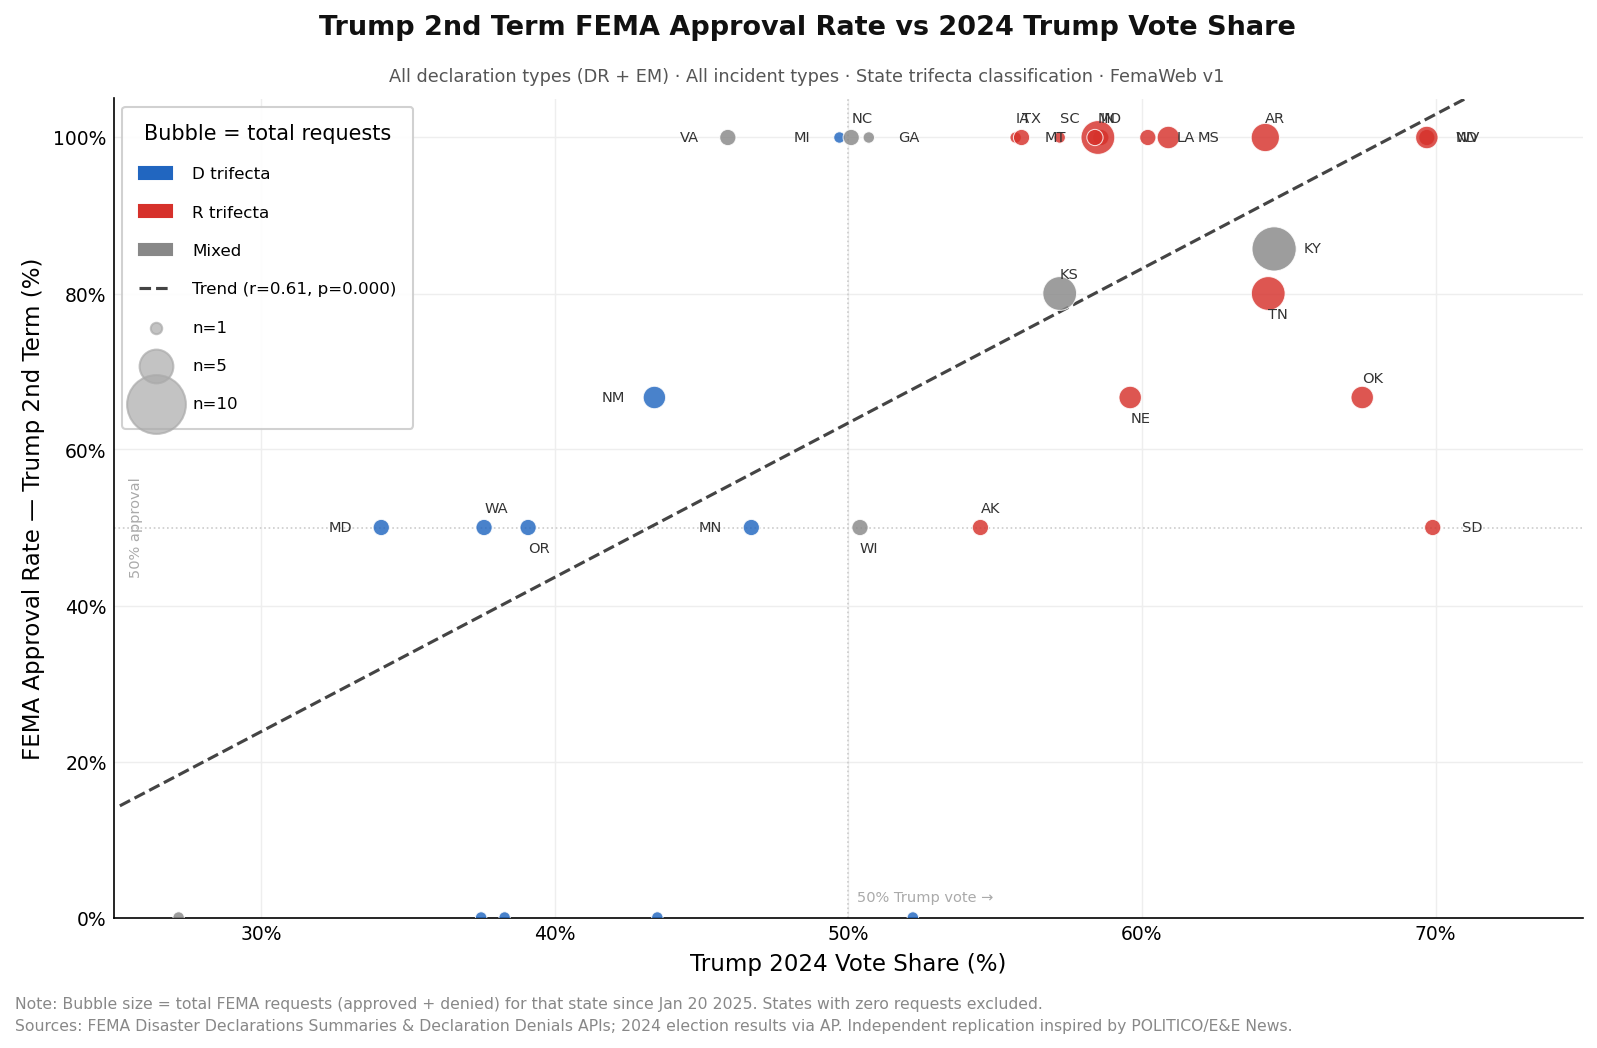
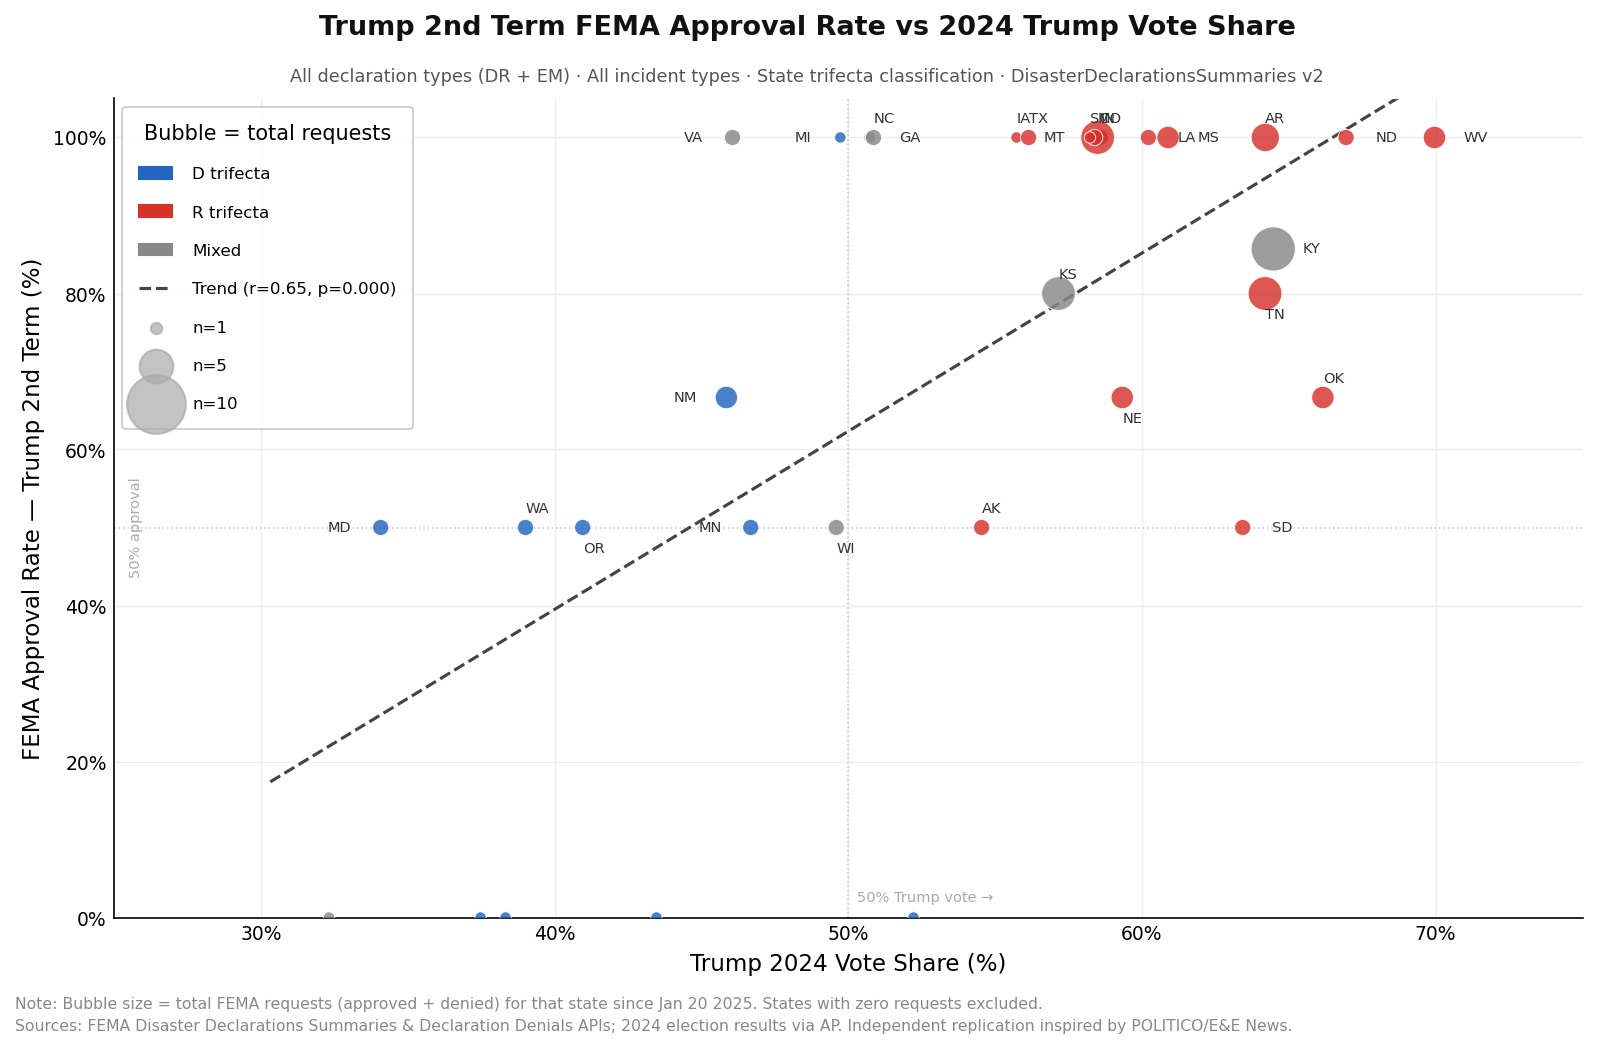
more accurate statelevel voteshares

diff --git a/trump2_scatter.py b/trump2_scatter.py
@@ -25,18 +25,18 @@ from replicate_fema_analysis import (
 OUTPUT_PATH = "trump2_scatter.png"
 
 # 2024 presidential election — Trump vote share by state
-# Source: AP / state election results
+# Source: official state election results (corrected)
 TRUMP_2024 = {
-    "AL": 64.6, "AK": 54.5, "AZ": 52.2, "AR": 64.2, "CA": 38.3,
-    "CO": 43.1, "CT": 41.9, "DE": 41.9, "FL": 56.1, "GA": 50.7,
-    "HI": 37.5, "ID": 66.9, "IL": 43.5, "IN": 58.6, "IA": 55.7,
-    "KS": 57.2, "KY": 64.5, "LA": 60.2, "ME": 45.5, "MD": 34.1,
-    "MA": 36.0, "MI": 49.7, "MN": 46.7, "MS": 60.9, "MO": 58.5,
-    "MT": 58.4, "NE": 59.6, "NV": 50.6, "NH": 47.5, "NJ": 43.5,
-    "NM": 43.4, "NY": 41.5, "NC": 50.1, "ND": 69.7, "OH": 54.0,
-    "OK": 67.5, "OR": 39.1, "PA": 50.8, "RI": 36.6, "SC": 57.2,
-    "SD": 69.9, "TN": 64.3, "TX": 55.9, "UT": 52.6, "VT": 27.2,
-    "VA": 45.9, "WA": 37.6, "WV": 69.7, "WI": 50.4, "WY": 70.5,
+    "AL": 64.57, "AK": 54.54, "AZ": 52.22, "AR": 64.20, "CA": 38.33,
+    "CO": 43.14, "CT": 41.89, "DE": 41.79, "FL": 56.09, "GA": 50.73,
+    "HI": 37.48, "ID": 66.89, "IL": 43.47, "IN": 58.58, "IA": 55.73,
+    "KS": 57.16, "KY": 64.47, "LA": 60.22, "ME": 45.50, "MD": 34.08,
+    "MA": 36.02, "MI": 49.73, "MN": 46.68, "MS": 60.89, "MO": 58.49,
+    "MT": 58.39, "NE": 59.33, "NV": 50.59, "NH": 47.87, "NJ": 46.07,
+    "NM": 45.85, "NY": 43.31, "NC": 50.86, "ND": 66.95, "OH": 55.13,
+    "OK": 66.16, "OR": 40.96, "PA": 50.20, "RI": 41.77, "SC": 58.23,
+    "SD": 63.43, "TN": 64.19, "TX": 56.14, "UT": 59.37, "VT": 32.32,
+    "VA": 46.06, "WA": 39.01, "WV": 69.96, "WI": 49.59, "WY": 71.60,
 }
 
 STATE_NAMES = {
